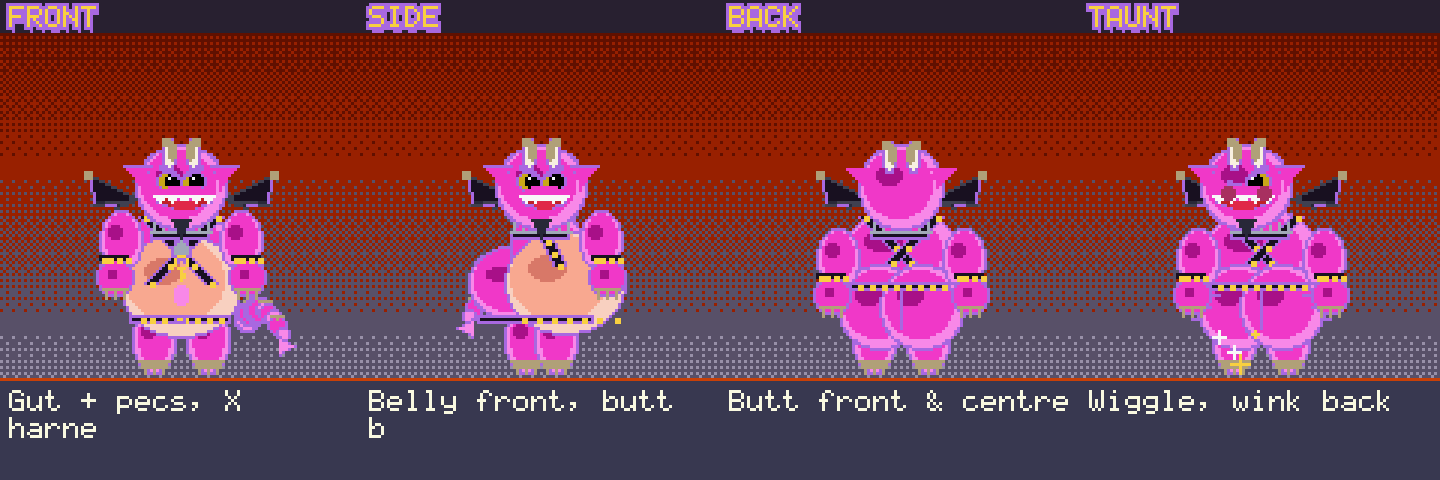
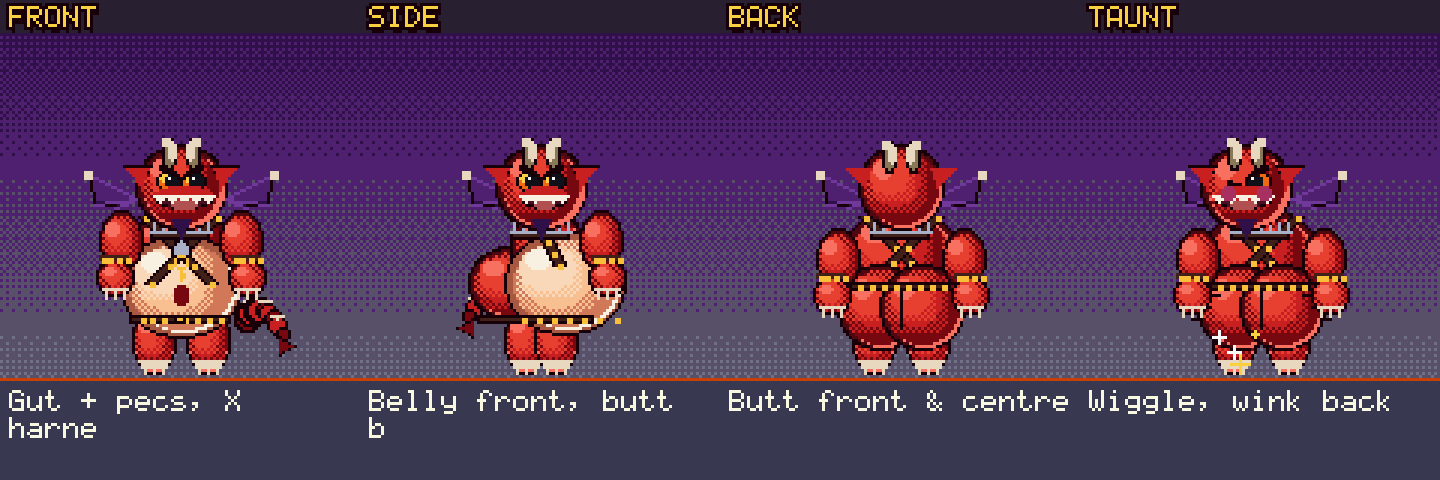
Grumbleguts concept sheets: 8-shade dithered ramps, crimson body
Claude-Session: https://claude.ai/code/session_01RLcGbHBa2kju7ynbaJLHT6

diff --git a/trailer/concept/grumbleguts.c b/trailer/concept/grumbleguts.c
@@ -13,40 +13,57 @@
 int  tk_write_png_rgb(const char *path, const uint8_t *rgb, int w, int h);
 void tk_fb_to_rgb(uint8_t *out);
 
-/* ---- palette picks ---------------------------------------------------- */
-#define SKIN_L  PAL_PAINT(PAINT_MAGENTA, 0)
-#define SKIN    PAL_PAINT(PAINT_MAGENTA, 1)
-#define SKIN_D  PAL_PAINT(PAINT_MAGENTA, 2)
-#define LINE    PAL_PAINT(PAINT_GRAPE, 2)      /* coloured outline, not black */
-#define BELLY_L PAL_PAINT(PAINT_PEACH, 0)
-#define BELLY   PAL_PAINT(PAINT_PEACH, 1)
-#define BELLY_D PAL_PAINT(PAINT_PEACH, 2)
-#define HORN    PAL_PAINT(PAINT_BONE, 0)
-#define HORN_D  PAL_PAINT(PAINT_BONE, 2)
-#define WING    PAL_PAINT(PAINT_JET, 1)
-#define WING_D  PAL_PAINT(PAINT_JET, 2)
-#define WING_L  PAL_PAINT(PAINT_CHARCOAL, 1)
-#define LEATHER PAL_PAINT(PAINT_JET, 1)
-#define LEATHER_D PAL_PAINT(PAINT_JET, 2)
-#define STUD    PAL_UI_GOLD
-#define CHAIN   PAL_PAINT(PAINT_SILVER, 1)
-#define EYE_W   PAL_PAINT(PAINT_LEMON, 0)
-#define PUPIL   PAL_BLACK
-#define FANG    PAL_WHITE
-#define MOUTH   PAL_PAINT(PAINT_BLOOD, 2)
-#define TONGUE  PAL_PAINT(PAINT_CHERRY, 1)
+/* ---- palette picks: 8-shade ramps, dithered, so it reads as paint, not CGA */
+#define LINE    PAL_RAMP(RAMP_BLOOD, 0)        /* deep wine outline              */
+static const uint8_t SKINM[5]  = { PAL_RAMP(RAMP_BLOOD, 2), PAL_RAMP(RAMP_BLOOD, 3), PAL_RAMP(RAMP_BLOOD, 5), PAL_RAMP(RAMP_BLOOD, 6), PAL_RAMP(RAMP_BLOOD, 7) };
+static const uint8_t BELLYM[5] = { PAL_RAMP(RAMP_PEACH, 2), PAL_RAMP(RAMP_PEACH, 3), PAL_RAMP(RAMP_PEACH, 5), PAL_RAMP(RAMP_PEACH, 6), PAL_RAMP(RAMP_PEACH, 7) };
+#define SKIN    PAL_RAMP(RAMP_BLOOD, 5)
+#define SKIN_D  PAL_RAMP(RAMP_BLOOD, 3)
+#define SKIN_L  PAL_RAMP(RAMP_BLOOD, 6)
+#define HORN    PAL_RAMP(RAMP_BONE, 6)
+#define HORN_D  PAL_RAMP(RAMP_BONE, 3)
+#define WING    PAL_RAMP(RAMP_VAPE, 2)
+#define WING_D  PAL_RAMP(RAMP_VAPE, 1)
+#define WING_L  PAL_RAMP(RAMP_VAPE, 3)
+#define LEATHER PAL_RAMP(RAMP_WOOD, 1)
+#define LEATHER_D PAL_RAMP(RAMP_WOOD, 0)
+#define STUD    PAL_RAMP(RAMP_CANDY, 4)       /* brass */
+#define CHAIN   PAL_RAMP(RAMP_STEEL, 6)
+#define EYE_W   PAL_RAMP(RAMP_LAVA, 6)
+#define EYE_O   PAL_RAMP(RAMP_LAVA, 4)
+#define PUPIL   PAL_RAMP(RAMP_STONE, 0)
+#define FANG    PAL_RAMP(RAMP_BONE, 7)
+#define MOUTH   PAL_RAMP(RAMP_FLESH, 1)
+#define TONGUE  PAL_RAMP(RAMP_FLESH, 4)
 
 enum { V_FRONT, V_SIDE, V_BACK, V_BACK_LOOK };
 enum { E_GRIN, E_WINK, E_SHOCK, E_SMUG, E_SUCK, E_YELP, E_LOVE };
 enum { P_STAND, P_SNACK, P_SUCK_IN, P_SPRING, P_WIGGLE, P_UNBUCKLE,
        P_CROP, P_INFLATED, P_MIRROR };
 
-/* shaded blob: outline, dark, base, highlight */
-static void blob(int cx, int cy, int rx, int ry, uint8_t l, uint8_t b, uint8_t d) {
+/* shaded blob: outline, then 5 tones lit from the upper-left, with a
+ * checkerboard dither on every seam and a thin rim light bottom-right. */
+static void blob(int cx, int cy, int rx, int ry, const uint8_t *m) {
     tk_ellipse(cx, cy, rx + 1, ry + 1, LINE);
-    tk_ellipse(cx, cy, rx, ry, d);
-    tk_ellipse(cx - rx / 8, cy - ry / 8, rx - rx / 6, ry - ry / 6, b);
-    tk_ellipse(cx - rx / 3, cy - ry / 3, rx / 3, ry / 4, l);
+    tk_ellipse(cx, cy, rx, ry, m[0]);
+    tk_ellipse(cx + rx / 10, cy + ry / 10, rx - rx / 8, ry - ry / 8, m[4]);   /* rim light */
+    tk_ellipse(cx, cy, rx - rx / 7, ry - ry / 7, m[1]);
+    for (int k = 2; k <= 3; k++) {
+        int sh = k - 1;
+        int ex = cx - rx * sh / 6, ey = cy - ry * sh / 6;
+        int erx = rx - rx * (k + 1) / 7, ery = ry - ry * (k + 1) / 7;
+        tk_ellipse(ex, ey, erx, ery, m[k]);
+        /* dither seam just outside this tone */
+        for (int y = ey - ery - 2; y <= ey + ery + 2; y++)
+            for (int x = ex - erx - 2; x <= ex + erx + 2; x++) {
+                if ((x + y) & 1) continue;
+                long dx = x - ex, dy = y - ey;
+                long inside = dx * dx * ery * ery + dy * dy * erx * erx;
+                long r0 = (long)erx * ery, r1 = (long)(erx + 2) * (ery + 2);
+                if (inside > r0 * r0 && inside <= r1 * r1 && tk_get(x, y) == m[k - 1]) tk_px(x, y, m[k]);
+            }
+    }
+    tk_ellipse(cx - rx / 2, cy - ry / 2, rx / 5 + 1, ry / 6 + 1, m[4]);         /* specular */
 }
 static void blob_outline_only(int cx, int cy, int rx, int ry, uint8_t b) {
     tk_ellipse(cx, cy, rx + 1, ry + 1, LINE);
@@ -122,7 +139,7 @@ static void face(int cx, int cy, int s, int expr, int dir) {
         }
         int rx = 3 * s, ry = expr == E_SHOCK || expr == E_YELP ? 3 * s : 2 * s;
         tk_ellipse(x, ey, rx + 1, ry + 1, LINE);
-        tk_ellipse(x, ey, rx, ry, EYE_W);
+        tk_ellipse(x, ey, rx, ry, EYE_O); tk_ellipse(x - 1, ey - 1, rx - 1, ry - 1, EYE_W);
         if (expr == E_LOVE) tk_heart(x - 2, ey - 2, 2, PAL_PAINT(PAINT_CHERRY, 1));
         else {
             int px = x + dir * s, pr = expr == E_SHOCK ? 1 : s + 1;
@@ -181,7 +198,7 @@ static void grumbleguts(int cx, int yf, int s, int view, int pose, int expr) {
     for (int side = -1; side <= 1; side += 2) {
         int lx = cx + side * 9 * s;
         if (view == V_SIDE) lx = cx + side * 5 * s;
-        blob(lx, yf - 9 * s, 6 * s, 10 * s, SKIN_L, SKIN, SKIN_D);
+        blob(lx, yf - 9 * s, 6 * s, 10 * s, SKINM);
         /* claws */
         for (int c = -1; c <= 1; c++) tk_tri(lx + c * 3 * s - 2, yf - 2 * s, lx + c * 3 * s + 2, yf - 2 * s, lx + c * 3 * s, yf + 2, HORN);
     }
@@ -189,10 +206,10 @@ static void grumbleguts(int cx, int yf, int s, int view, int pose, int expr) {
     /* ---- body ---- */
     if (view == V_SIDE) {
         /* profile: belly bulges forward (right), butt bulges back (left) */
-        blob(cx - 10 * s, body_y + 2 * s, butt_r, butt_r - 2 * s, SKIN_L, SKIN, SKIN_D);   /* butt */
+        blob(cx - 10 * s, body_y + 2 * s, butt_r, butt_r - 2 * s, SKINM);   /* butt */
         tk_line(cx - 10 * s, body_y - 2 * s, cx - 10 * s, body_y + butt_r - 4 * s, LINE);   /* cleft */
-        blob(cx + 2 * s, body_y - 10 * s, 11 * s, 12 * s, SKIN_L, SKIN, SKIN_D);           /* chest */
-        blob(cx + 8 * s, body_y + 2 * s, belly_r, belly_r - 3 * s, BELLY_L, BELLY, BELLY_D); /* belly */
+        blob(cx + 2 * s, body_y - 10 * s, 11 * s, 12 * s, SKINM);           /* chest */
+        blob(cx + 8 * s, body_y + 2 * s, belly_r, belly_r - 3 * s, BELLYM); /* belly */
         tk_circle(cx + 8 * s + belly_r - 3 * s, body_y + 3 * s, 2, SKIN_D);               /* navel */
         /* harness */
         strap(cx - 2 * s, body_y - 20 * s, cx + 6 * s, body_y - 4 * s, s);
@@ -202,11 +219,11 @@ static void grumbleguts(int cx, int yf, int s, int view, int pose, int expr) {
         studs(cx - 6 * s, body_y + belly_r - 5 * s, cx + 10 * s + belly_r - 4 * s, body_y + belly_r - 5 * s, 6);
     } else if (view == V_FRONT) {
         /* pecs on top of the gut: the effort shows */
-        blob(cx, body_y - 10 * s, 17 * s, 11 * s, SKIN_L, SKIN, SKIN_D);
+        blob(cx, body_y - 10 * s, 17 * s, 11 * s, SKINM);
         tk_line(cx, body_y - 18 * s, cx, body_y - 4 * s, SKIN_D);
-        blob(cx, body_y + 3 * s, belly_r, belly_r - 3 * s, BELLY_L, BELLY, BELLY_D);
+        blob(cx, body_y + 3 * s, belly_r, belly_r - 3 * s, BELLYM);
         tk_ellipse(cx, body_y + 6 * s, 2, 3, SKIN_D);                                      /* navel */
-        if (pose == P_INFLATED) { tk_ring(cx, body_y + 3 * s, belly_r - 4 * s, BELLY_D); tk_ring(cx, body_y + 3 * s, belly_r - 8 * s, BELLY_D); }
+        if (pose == P_INFLATED) { tk_ring(cx, body_y + 3 * s, belly_r - 4 * s, PAL_RAMP(RAMP_PEACH, 3)); tk_ring(cx, body_y + 3 * s, belly_r - 8 * s, PAL_RAMP(RAMP_PEACH, 3)); }
         /* X harness with gold studs */
         strap(cx - 12 * s, body_y - 20 * s, cx + 10 * s, body_y + 2 * s, s);
         strap(cx + 12 * s, body_y - 20 * s, cx - 10 * s, body_y + 2 * s, s);
@@ -220,12 +237,12 @@ static void grumbleguts(int cx, int yf, int s, int view, int pose, int expr) {
         else { tk_rect(cx - 2 * s, by, 4 * s, 3 * s, STUD); tk_frame(cx - 2 * s, by, 4 * s, 3 * s, LINE); }
     } else {
         /* back: broad shoulders, X straps, and THE BUTT front and centre */
-        blob(cx, body_y - 8 * s, 18 * s, 14 * s, SKIN_L, SKIN, SKIN_D);
+        blob(cx, body_y - 8 * s, 18 * s, 14 * s, SKINM);
         strap(cx - 12 * s, body_y - 20 * s, cx + 8 * s, body_y, s);
         strap(cx + 12 * s, body_y - 20 * s, cx - 8 * s, body_y, s);
         int by = body_y + 4 * s;
-        blob(cx - butt_r / 2 - s, by + butt_r / 2, butt_r, butt_r, SKIN_L, SKIN, SKIN_D);
-        blob(cx + butt_r / 2 + s, by + butt_r / 2, butt_r, butt_r, SKIN_L, SKIN, SKIN_D);
+        blob(cx - butt_r / 2 - s, by + butt_r / 2, butt_r, butt_r, SKINM);
+        blob(cx + butt_r / 2 + s, by + butt_r / 2, butt_r, butt_r, SKINM);
         tk_line(cx, by - 2, cx, by + butt_r, LINE);
         /* belt sits above the cheeks */
         tk_rect(cx - 17 * s, by - 2 * s, 34 * s, 3 * s, LEATHER); tk_frame(cx - 17 * s, by - 2 * s, 34 * s, 3 * s, LINE);
@@ -250,11 +267,11 @@ static void grumbleguts(int cx, int yf, int s, int view, int pose, int expr) {
         int ax = cx + side * 20 * s, ay = body_y - 12 * s;
         int raised = (pose == P_SPRING || pose == P_CROP) && side == 1;
         if (pose == P_WIGGLE || view == V_BACK || view == V_BACK_LOOK) { ax = cx + side * 21 * s; ay = body_y - 6 * s; }
-        blob(ax, raised ? ay - 10 * s : ay, 6 * s, 9 * s, SKIN_L, SKIN, SKIN_D);           /* bicep */
+        blob(ax, raised ? ay - 10 * s : ay, 6 * s, 9 * s, SKINM);           /* bicep */
         int hx = ax + side * 2 * s, hy = raised ? ay - 22 * s : ay + 12 * s;
         if (pose == P_SNACK && side == 1) { hx = cx + 12 * s; hy = head_y + 6 * s; }
         if (pose == P_MIRROR && side == 1) { hx = cx + 26 * s; hy = body_y - 18 * s; }
-        blob(hx, hy, 5 * s, 5 * s, SKIN_L, SKIN, SKIN_D);                                   /* fist */
+        blob(hx, hy, 5 * s, 5 * s, SKINM);                                   /* fist */
         /* studded cuff */
         tk_rect(hx - 5 * s, hy - 7 * s, 10 * s, 2 * s, LEATHER); studs(hx - 4 * s, hy - 6 * s, hx + 4 * s, hy - 6 * s, 3);
         for (int c = -1; c <= 1; c++) tk_tri(hx + c * 3 * s - 1, hy + 4 * s, hx + c * 3 * s + 1, hy + 4 * s, hx + c * 3 * s, hy + 6 * s + 1, HORN);
@@ -272,7 +289,7 @@ static void grumbleguts(int cx, int yf, int s, int view, int pose, int expr) {
 
     /* ---- head ---- */
     if (view == V_BACK) {
-        blob(cx, head_y, 13 * s, 13 * s, SKIN_L, SKIN, SKIN_D);
+        blob(cx, head_y, 13 * s, 13 * s, SKINM);
         horns(cx, head_y - 8 * s, s, 0);
         /* pointy ears */
         tk_tri(cx - 12 * s, head_y, cx - 18 * s, head_y - 6 * s, cx - 10 * s, head_y - 6 * s, SKIN);
@@ -280,7 +297,7 @@ static void grumbleguts(int cx, int yf, int s, int view, int pose, int expr) {
         return;
     }
     int hx = cx + (view == V_BACK_LOOK ? -5 * s : 0);
-    blob(hx, head_y, 14 * s, 13 * s, SKIN_L, SKIN, SKIN_D);
+    blob(hx, head_y, 14 * s, 13 * s, SKINM);
     tk_tri(hx - 13 * s, head_y, hx - 19 * s, head_y - 7 * s, hx - 10 * s, head_y - 7 * s, LINE);
     tk_tri(hx - 13 * s, head_y + 1, hx - 18 * s, head_y - 6 * s, hx - 11 * s, head_y - 6 * s, SKIN);
     tk_tri(hx + 13 * s, head_y, hx + 19 * s, head_y - 7 * s, hx + 10 * s, head_y - 7 * s, LINE);
@@ -316,7 +333,7 @@ static void save(const char *dir, const char *name) {
     npanels = 0;
 }
 static void shot(const char *label, int view, int pose, int expr, const char *note) {
-    static const uint8_t cols[4] = { PAL_RAMP(RAMP_LAVA, 1), PAL_RAMP(RAMP_LAVA, 2), PAL_RAMP(RAMP_STONE, 3), PAL_RAMP(RAMP_STONE, 5) };
+    static const uint8_t cols[4] = { PAL_RAMP(RAMP_VAPE, 1), PAL_RAMP(RAMP_VAPE, 2), PAL_RAMP(RAMP_STONE, 3), PAL_RAMP(RAMP_STONE, 4) };
     tk_vgrad(0, 0, TW, TH, cols, 4);
     tk_rect(0, 126, TW, 34, PAL_RAMP(RAMP_STONE, 2));
     tk_line(0, 126, TW, 126, PAL_RAMP(RAMP_LAVA, 3));
@@ -328,7 +345,7 @@ static void shot(const char *label, int view, int pose, int expr, const char *no
 }
 
 static void backdrop(const char *title) {
-    static const uint8_t cols[4] = { PAL_RAMP(RAMP_LAVA, 1), PAL_RAMP(RAMP_LAVA, 2), PAL_RAMP(RAMP_STONE, 3), PAL_RAMP(RAMP_STONE, 5) };
+    static const uint8_t cols[4] = { PAL_RAMP(RAMP_VAPE, 1), PAL_RAMP(RAMP_VAPE, 2), PAL_RAMP(RAMP_STONE, 3), PAL_RAMP(RAMP_STONE, 4) };
     tk_vgrad(0, 0, TW, TH, cols, 4);
     tk_rect(0, 128, TW, 32, PAL_RAMP(RAMP_STONE, 2));
     tk_line(0, 128, TW, 128, PAL_RAMP(RAMP_LAVA, 3));
@@ -354,7 +371,7 @@ int main(int argc, char **argv) {
     shot("FULL (BACK)", V_BACK, P_INFLATED, E_YELP, "Cheek gauge in red");
     /* scale vs a citizen */
     {
-        static const uint8_t cols[4] = { PAL_RAMP(RAMP_LAVA, 1), PAL_RAMP(RAMP_LAVA, 2), PAL_RAMP(RAMP_STONE, 3), PAL_RAMP(RAMP_STONE, 5) };
+        static const uint8_t cols[4] = { PAL_RAMP(RAMP_VAPE, 1), PAL_RAMP(RAMP_VAPE, 2), PAL_RAMP(RAMP_STONE, 3), PAL_RAMP(RAMP_STONE, 4) };
         tk_vgrad(0, 0, TW, TH, cols, 4); tk_rect(0, 126, TW, 34, PAL_RAMP(RAMP_STONE, 2));
         grumbleguts(48, 122, 1, V_FRONT, P_STAND, E_GRIN);
         tk_chibi(100, 122, &TK_HERO, 1, TKE_SHOCK, TKM_O, 3, 1);
